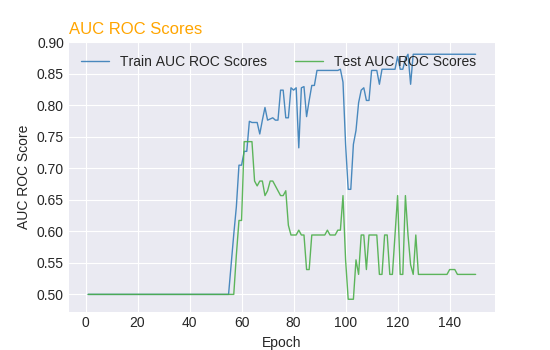
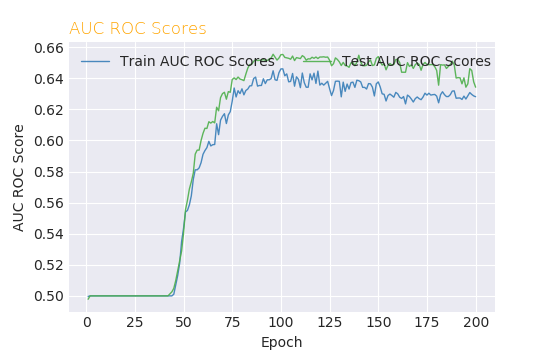
New Rnn Model

diff --git a/create_hourly_feats.py b/create_hourly_feats.py
@@ -57,14 +57,14 @@ def get_event_key_ids():
     item_mappings['220045'] = 'HEART_RATE'  # HEART RATE
     
     #Blood Pressure [Systolic]
-    item_mappings['3313'] = 'SBP_Limb'  #BP Cuff [Systolic] (cc/min)
-    item_mappings['3315'] = 'SBP_Limb'  #BP Left Arm [Systolic] (cc/min)
-    item_mappings['3317'] = 'SBP_Limb'  #BP Left Leg [Systolic] (cc/min)
-    item_mappings['3321'] = 'SBP_Limb'  #BP Right Arm [Systolic] (cc/min)
-    item_mappings['3323'] = 'SBP_Limb'  #BP Right Leg [Systolic] (cc/min)
+    #item_mappings['3313'] = 'SBP_Limb'  #BP Cuff [Systolic] (cc/min)
+    #item_mappings['3315'] = 'SBP_Limb'  #BP Left Arm [Systolic] (cc/min)
+    #item_mappings['3317'] = 'SBP_Limb'  #BP Left Leg [Systolic] (cc/min)
+    #item_mappings['3321'] = 'SBP_Limb'  #BP Right Arm [Systolic] (cc/min)
+    #item_mappings['3323'] = 'SBP_Limb'  #BP Right Leg [Systolic] (cc/min)
     
-    item_mappings['3319'] = 'SBP_Line'  #BP PAL [Systolic]  (Breath)
-    item_mappings['3325'] = 'SBP_Line'  #BP UAC [Systolic] (Breath)
+    #item_mappings['3319'] = 'SBP_Line'  #BP PAL [Systolic]  (Breath)
+    #item_mappings['3325'] = 'SBP_Line'  #BP UAC [Systolic] (Breath)
     
     item_mappings['6'] = 'SBP'  #ABP [Systolic] (mmHg)
     item_mappings['51'] = 'SBP'  #Arterial BP [Systolic]   (mmHg)
@@ -82,11 +82,11 @@ def get_event_key_ids():
     item_mappings['220179'] = 'SBP'  #Non Invasive Blood Pressure systolic (mmHg) 
         
     #Blood Pressure [Diastolic]
-    item_mappings['8502'] = 'DBP_Limb'  #BP Cuff [Diastolic] (cc/min)
-    item_mappings['8503'] = 'DBP_Limb'  #BP Left Arm [Diastolic] (cmH20)
-    item_mappings['8504'] = 'DBP_Limb'  #BP Left Leg [Diastolic] (cc/min)
-    item_mappings['8506'] = 'DBP_Limb'  #BP Right Arm [Diastolic] (cc/min)
-    item_mappings['8507'] = 'DBP_Limb'  #BP Right Leg [Diastolic] (cc/min)
+    #item_mappings['8502'] = 'DBP_Limb'  #BP Cuff [Diastolic] (cc/min)
+    #item_mappings['8503'] = 'DBP_Limb'  #BP Left Arm [Diastolic] (cmH20)
+    #item_mappings['8504'] = 'DBP_Limb'  #BP Left Leg [Diastolic] (cc/min)
+    #item_mappings['8506'] = 'DBP_Limb'  #BP Right Arm [Diastolic] (cc/min)
+    #item_mappings['8507'] = 'DBP_Limb'  #BP Right Leg [Diastolic] (cc/min)
     
     item_mappings['8508'] = 'DBP_Line'  #BP UAC [Diastolic] (Breath)
     item_mappings['8505'] = 'DBP_Line'  #BP PAL [Diastolic] (Breath)
@@ -114,17 +114,17 @@ def get_event_key_ids():
     item_mappings['220052'] = 'MBP'  #Arterial Blood Pressure mean   (mmHg)    
     item_mappings['220181'] = 'MBP'  #Non Invasive Blood Pressure mean (mmHg)
     
-    item_mappings['3324'] = 'MBP_Line'  #BP UAC [Mean]    (Breath)
-    item_mappings['3318'] = 'MBP_Line'  #BP PAL [Mean] (Breath)
+    #item_mappings['3324'] = 'MBP_Line'  #BP UAC [Mean]    (Breath)
+    #item_mappings['3318'] = 'MBP_Line'  #BP PAL [Mean] (Breath)
     
-    item_mappings['7622'] = 'MBP_Limb'  #BP Rt. Leg Mean (None)
-    item_mappings['7620'] = 'MBP_Limb'  #BP Rt. Arm Mean (None)
-    item_mappings['7618'] = 'MBP_Limb'  #BP Lt. leg Mean (None)
-    item_mappings['3322'] = 'MBP_Limb'  #BP Right Leg [Mean] (Breath)
-    item_mappings['3320'] = 'MBP_Limb'  #BP Right Arm [Mean] (Breath)
-    item_mappings['3316'] = 'MBP_Limb'  #BP Left Leg [Mean] (Breath)
-    item_mappings['3314'] = 'MBP_Limb'  #BP Left Arm [Mean] (Breath)    
-    item_mappings['3312'] = 'MBP_Limb'  #BP Cuff [Mean]  (cc/min)  
+    #item_mappings['7622'] = 'MBP_Limb'  #BP Rt. Leg Mean (None)
+    #item_mappings['7620'] = 'MBP_Limb'  #BP Rt. Arm Mean (None)
+    #item_mappings['7618'] = 'MBP_Limb'  #BP Lt. leg Mean (None)
+    #item_mappings['3322'] = 'MBP_Limb'  #BP Right Leg [Mean] (Breath)
+    #item_mappings['3320'] = 'MBP_Limb'  #BP Right Arm [Mean] (Breath)
+    #item_mappings['3316'] = 'MBP_Limb'  #BP Left Leg [Mean] (Breath)
+    #item_mappings['3314'] = 'MBP_Limb'  #BP Left Arm [Mean] (Breath)
+    #item_mappings['3312'] = 'MBP_Limb'  #BP Cuff [Mean]  (cc/min)
     
     #Temperature
     item_mappings['676'] = 'TEMP' #Temperature C

diff --git a/models/M_AUC_69_pctds20/train_variable_rnn.py b/models/M_AUC_69_pctds20/train_variable_rnn.py
@@ -38,9 +38,9 @@ print(num_features)
 dataset = VisitSequenceWithLabelDataset(seqs, labels, num_features)
 
 #Split Dataset
-train_size = int(0.8 * len(dataset))
-validation_size = int(len(dataset) - train_size)
-test_size = 0 #nt(len(dataset) - (2*validation_size))#0 #len(dataset) - (train_size +validation_size )
+train_size = int(0.2 * len(dataset))
+validation_size = train_size #int(len(dataset) - train_size)
+test_size = int(len(dataset) - (2*validation_size))#0 #len(dataset) - (train_size +validation_size )
 train_dataset, valid_dataset, test_dataset = torch.utils.data.random_split(dataset, [train_size, validation_size, test_size])
 
 train_loader = DataLoader(dataset=train_dataset, batch_size=BATCH_SIZE, shuffle=True, collate_fn=visit_collate_fn, num_workers=NUM_WORKERS)

diff --git a/utils.py b/utils.py
@@ -46,6 +46,11 @@ def train(model, device, data_loader, criterion, optimizer, epoch, print_freq=10
 
 	end = time.time()
 	for i, (input, target) in enumerate(data_loader):
+		#torch.set_printoptions(profile="full")
+		#print(i, (input, target))
+		#torch.set_printoptions(profile="default")
+
+
 		# measure data loading time
 		data_time.update(time.time() - end)
 
